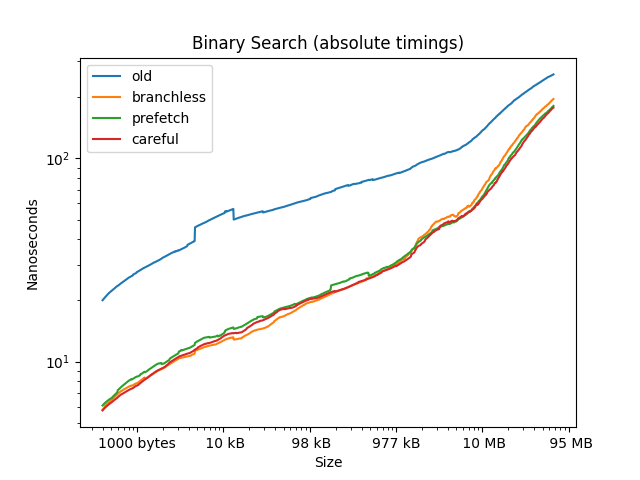
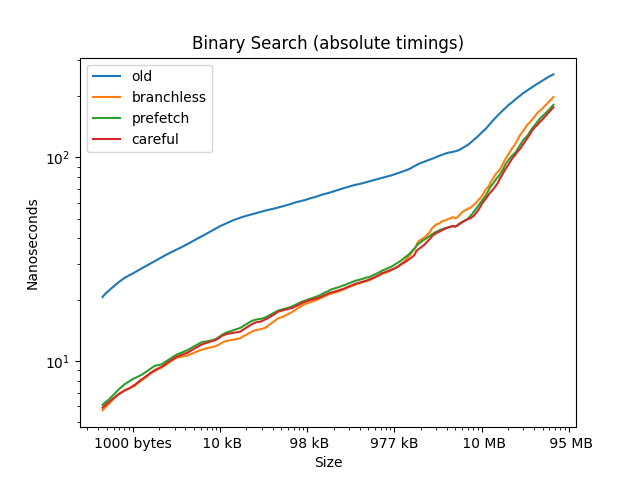
smooth out plotting a bit to make trends easier to see

diff --git a/plot.py b/plot.py
@@ -36,10 +36,10 @@ def main(name):
     df_to_plot = df
 
     rolling_size = 100
-    plt.plot(df_to_plot["size"], df_to_plot["old"].rolling(rolling_size).mean(), label="old")
-    plt.plot(df_to_plot["size"], df_to_plot["branchless"].rolling(rolling_size).mean(), label="branchless")
-    plt.plot(df_to_plot["size"], df_to_plot["prefetch"].rolling(rolling_size).mean(), label="prefetch")
-    plt.plot(df_to_plot["size"], df_to_plot["careful"].rolling(rolling_size).mean(), label="careful")
+    plt.plot(df_to_plot["size"], df_to_plot["old"].rolling(7).median().rolling(rolling_size).mean(), label="old")
+    plt.plot(df_to_plot["size"], df_to_plot["branchless"].rolling(7).median().rolling(rolling_size).mean(), label="branchless")
+    plt.plot(df_to_plot["size"], df_to_plot["prefetch"].rolling(7).median().rolling(rolling_size).mean(), label="prefetch")
+    plt.plot(df_to_plot["size"], df_to_plot["careful"].rolling(7).median().rolling(rolling_size).mean(), label="careful")
 
     if name != "relative":
         plt.gca().set_yscale("log")
